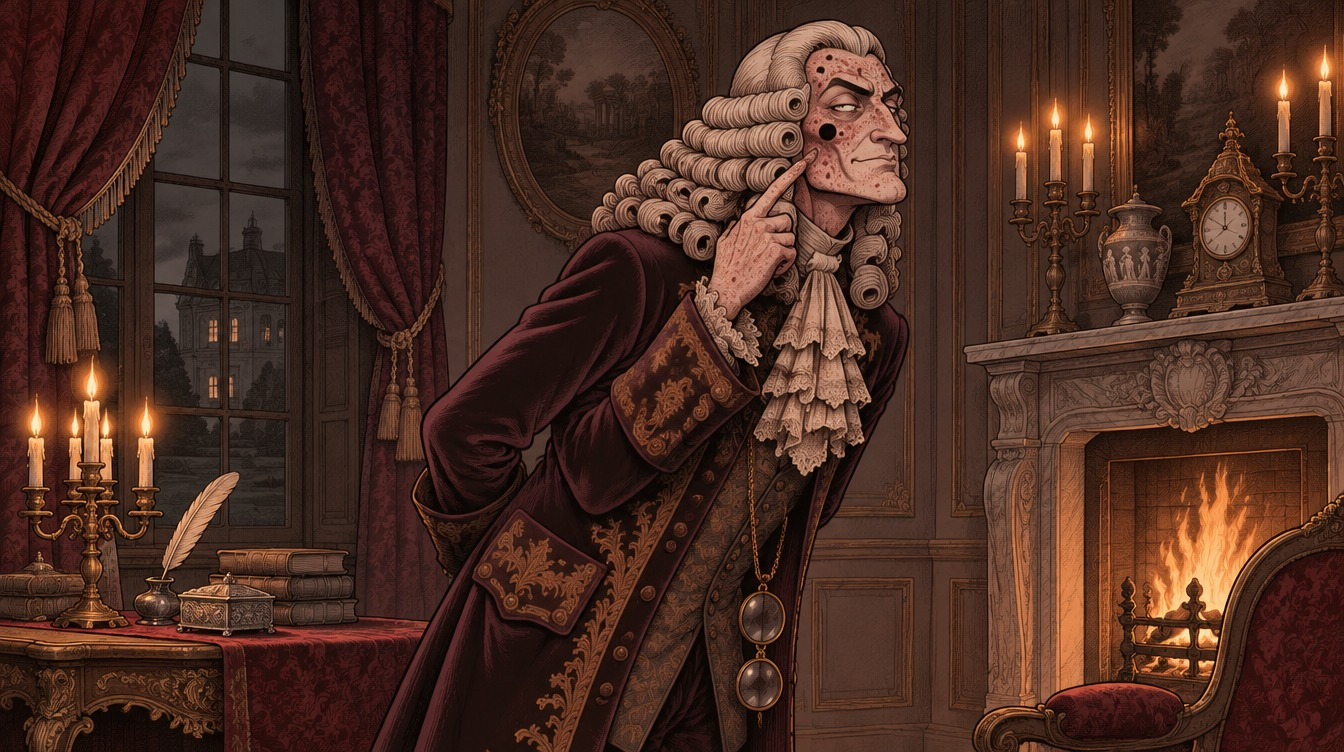
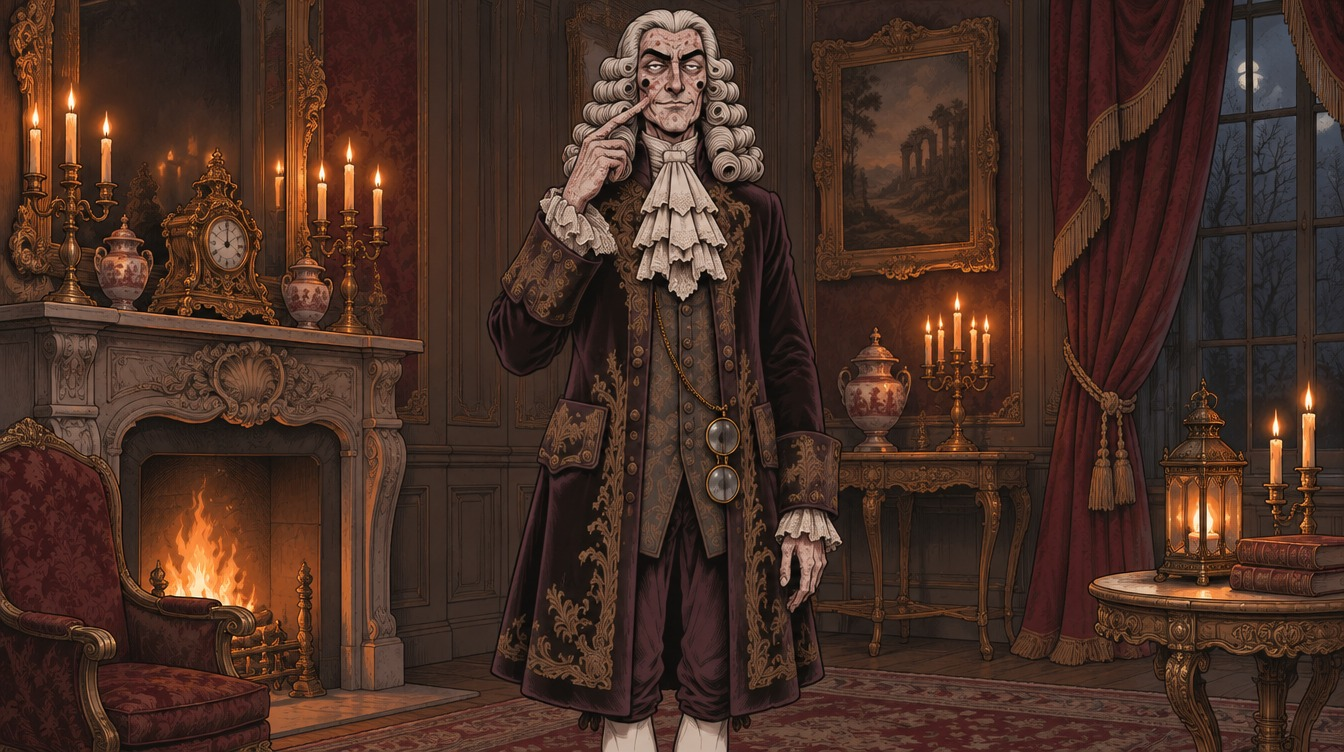
Smallpox ep3: c11a redrawn (arm to cheek read as a third arm)
Claude-Session: https://claude.ai/code/session_01TNc2K4iQhF6FRvCx2VQdik

diff --git a/tools/plague/ep03_spec.py b/tools/plague/ep03_spec.py
@@ -70,7 +70,7 @@ N('L04', "Around three in ten people who caught the classic form died. Survivors
   sh('c10a', STILL, "Ten small simple wooden figurines standing in a row on a dark wooden shelf, candle light. Symbolic still life.",
      text=[label('3 / 10', 960, 260, 110)]))
 K('L05', "I like to leave a little something to remember me by.",
-  kg('c11a', C(.5, .45, 1.1), "The Speckled Monster bows slightly and taps his own speckled cheek with one finger, cold smile."))
+  kg('c11a', C(.5, .45, 1.1), "The Speckled Monster stands facing the viewer in a candlelit drawing room, full figure visible from head to knees. His RIGHT hand is raised and one finger touches his own speckled cheek; his LEFT arm hangs straight down at his side, the left hand visible by his coat pocket. Cold smile. Both arms clearly drawn from shoulder to hand, exactly two arms and two hands."))
 N('L06', "The English called him: the speckled monster.",
   sh('c12a', C(.5, .5, 1.05), "An 18th-century engraving-style printed broadsheet pinned to a wooden wall, showing a drawing of a tall dark silhouette in a big wig. Leave the broadsheet without words.",
      text=[label('THE SPECKLED MONSTER', 960, 900, 80)]))
